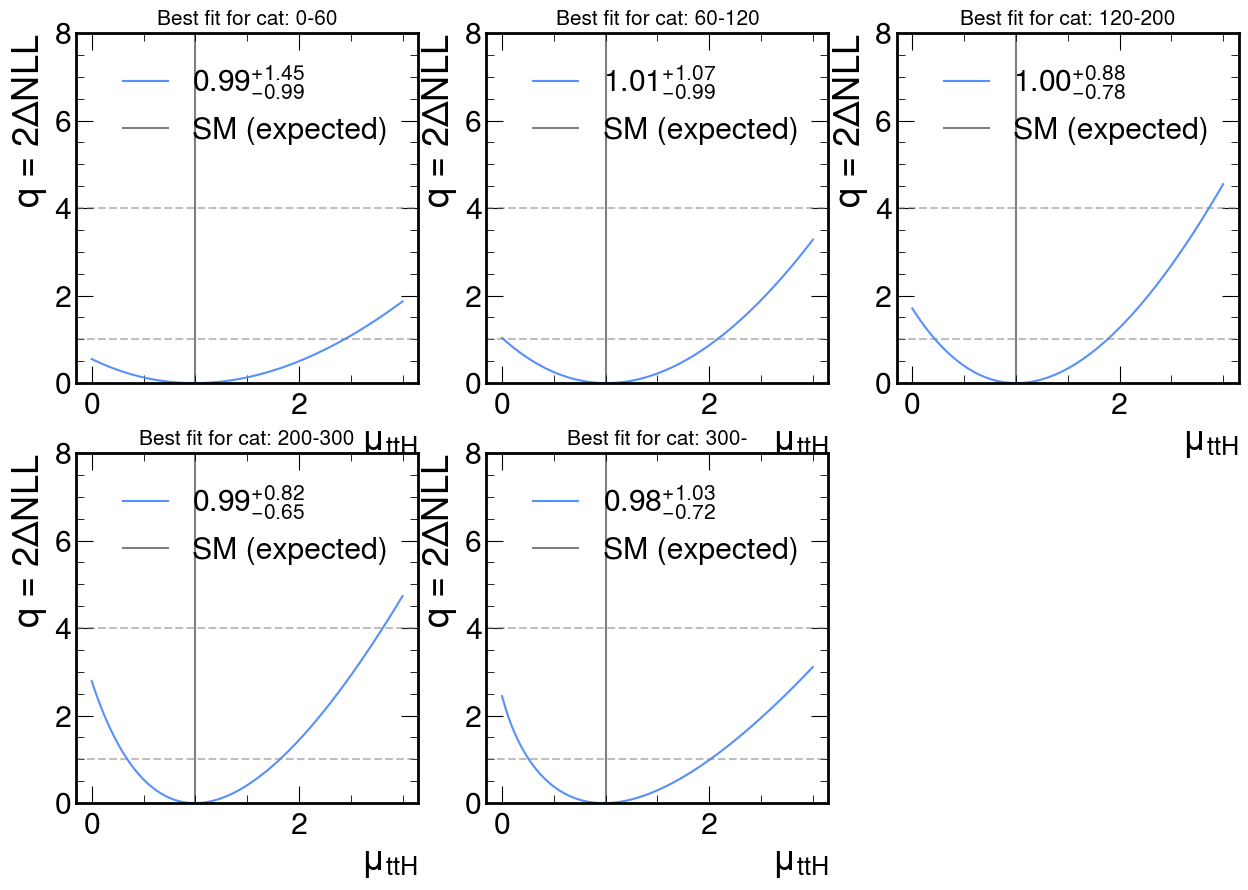
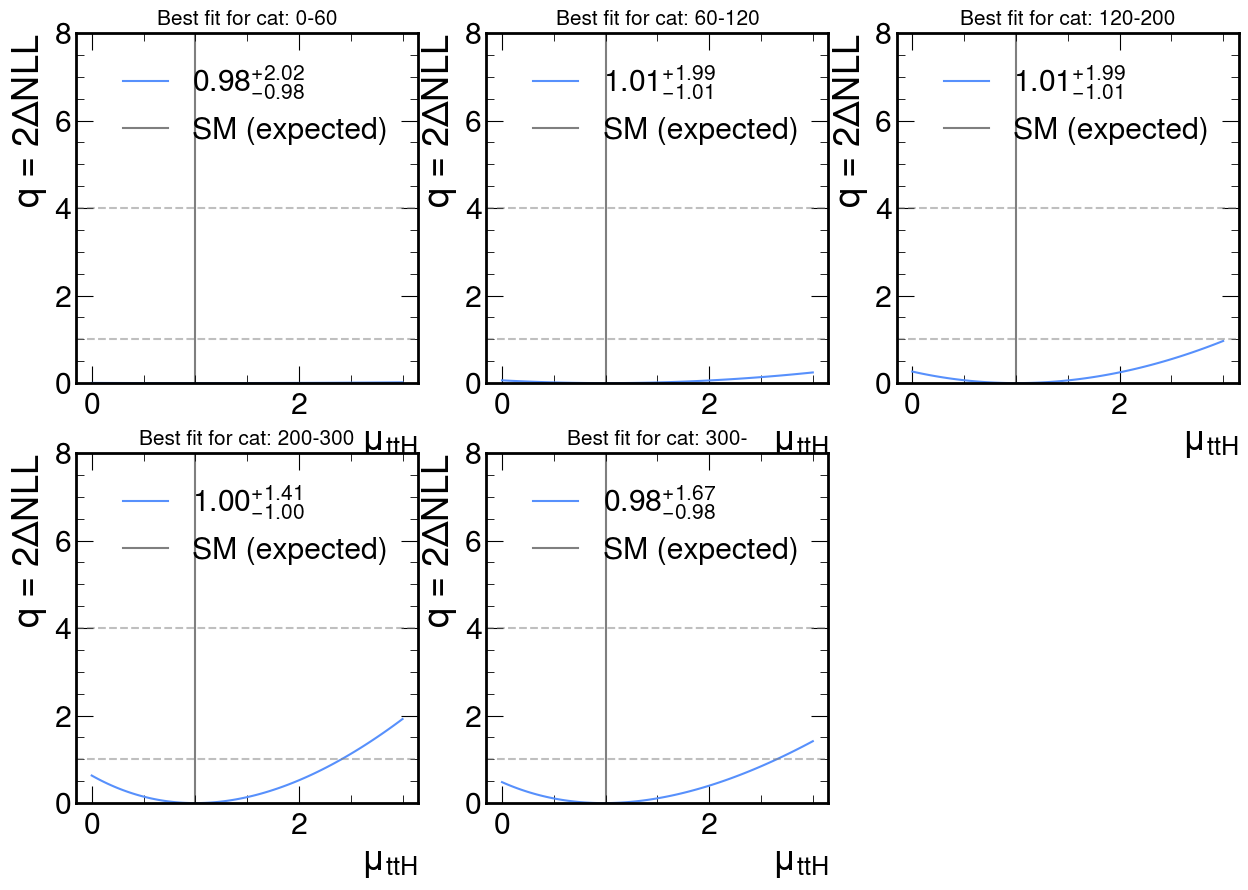
Conf matrix - Added data filtering, Background distribution - categorising and getting distribution for each category and replacing exisiting background counts with integrated background distribution.

diff --git a/background_dist.py b/background_dist.py
@@ -1,34 +1,68 @@
-
+#%%
 from utils import *
 import pandas as pd
 import numpy as np
 import matplotlib.pyplot as plt
 from scipy.optimize import curve_fit
+from scipy.integrate import quad
+from utils import get_pt_cat
+
 def exp(x, lam, A):
     return A*np.exp(-lam*x)
 def get_background_dist():
     back_data = pd.read_parquet(f"{sample_path}/Data_processed_selected.parquet")
-    back_mass = back_data["mass_sel"][back_data["mass_sel"]==back_data["mass_sel"]]
+    back_mass = back_data["mass_sel"]#.dropna().reset_index(drop=True)
+    back_pt = back_data["pt-over-mass_sel"]*back_mass
+    print(back_pt)
+    back_data["categories"] = get_pt_cat(back_pt)
+    back_data["categories"].dropna()
+    #print(back_data["categories"])
+    fig,ax = plt.subplots(ncols=5, figsize=(20,5))
+    #print(np.unique(back_data["categories"]))
 
-    fig,ax = plt.subplots()
-    
-    counts, bin_edges = np.histogram(back_mass, bins = 80)
-    bin_centres = (bin_edges[:-1]+bin_edges[1:])/2
+    fits = []
+    for cat in range(5):
+        #Combining categories 4 and 5
+        # if cat==4:
+        #     mask = (back_data["categories"]==cat) or (back_data["categories"]==cat+1)
+        # else: 
+        mask = back_data["categories"]==cat
+        cur_cat = back_mass[mask]
+        ax[cat].hist(cur_cat, bins=80, range=(100,200), weights = back_data["plot_weight"][mask])
+        counts, bin_edges = np.histogram(cur_cat, bins = 80, range= (100,200), weights = back_data["plot_weight"][mask])
+        bin_centres = (bin_edges[:-1]+bin_edges[1:])/2
 
-    mask = (bin_centres<125) | (bin_centres>135)
+        fil_cen = bin_centres[counts>0]
+        fil_counts = counts[counts>0]
+        
+        p_fit, p_cov = curve_fit(exp, fil_cen, fil_counts,p0=[0.001, 10000])
+        
+        ax[cat].plot(np.arange(100, 180), exp(np.arange(100, 180), *p_fit))
+        ax[cat].plot(fil_cen, fil_counts, linestyle="", marker="x")
+        ax[cat].set_xlabel("Mass (GeV)")
+        ax[cat].set_ylabel("Events")
+        ax[cat].set_title(f"Category {cat}")
+        fits.append(p_fit)
+    #fig.savefig(f"{analysis_path}/back_mass.png", bbox_inches="tight")
+    return fits
 
-    fil_cen = bin_centres[counts>0]
-    fil_counts = counts[counts>0]
-    
-    p_fit, p_cov = curve_fit(exp, fil_cen, fil_counts,p0=[0.001, 10000])
-    
-    ax.plot(np.arange(100, 180), exp(np.arange(100, 180), *p_fit))
-    ax.plot(fil_cen, fil_counts, linestyle="", marker="x")
-    
-    fig.savefig(f"{analysis_path}/back_mass.png", bbox_inches="tight")
-    return p_fit
+def get_back_int(cat, bounds, n_bins):
+    p_fit = get_background_dist()[cat]
+    lam, A = p_fit
 
+    events = []
+    bin_width = (bounds[1]-bounds[0])/n_bins
+
+    for i in range(n_bins):
+        lower_bound = bounds[0] + i * bin_width
+        upper_bound = lower_bound + bin_width
+        integral = quad(exp, lower_bound, upper_bound, args=(lam, A))
+        events.append(integral[0])
+    return np.array(events)
 
 
 
 get_background_dist()
+print(get_back_int(3, (120, 130), 5))
+
+# %%

diff --git a/simple_stat_analysis.py b/simple_stat_analysis.py
@@ -7,6 +7,7 @@ import mplhep as hep
 plt.style.use(hep.style.CMS)
 
 from utils import *
+from background_dist import *
 
 # Constants
 total_lumi = 7.9804
@@ -143,16 +144,20 @@ hists = {}
 mass_range = (120,130)
 mass_bins = 5
 v = 'mass'+col_name
-
 for cat in cats_unique:
     hists[cat] = {}
     for proc in procs.keys():
-        cat_mask = dfs[proc]['category'] == cat
-        hist_counts = np.histogram(dfs[proc][cat_mask][v], mass_bins, mass_range, weights=dfs[proc][cat_mask]['true_weight'+col_name])[0]
+        #Adding background events from background distribution
+        if proc=="background":
+            hist_counts=get_back_int(cat, mass_range, mass_bins)
+        else:
+            cat_mask = dfs[proc]['category'] == cat
+            hist_counts = np.histogram(dfs[proc][cat_mask][v], mass_bins, mass_range, weights=dfs[proc][cat_mask]['true_weight'+col_name])[0]
         
-        hist_counts[-2] += hist_counts[-1]  # Add last bin to the second last
-        hist_counts = hist_counts[:-1]      # Remove the last bin
+        # hist_counts[-2] += hist_counts[-1]  # Add last bin to the second last
+        # hist_counts = hist_counts[:-1]      # Remove the last bin
         hists[cat][proc] = hist_counts
+#print(hists)
 # Calculate NLL as a function of ttH signal strength (assuming fixed bkg and ggH yields)
 NLL_vals = []
 mu_vals = np.linspace(0,3,100)
@@ -212,7 +217,7 @@ comb_hist = build_combined_histogram(hists, conf_matrix[2], mass_bins=4)
 #NLL_vals = []
 init_mu = [1,1,1,1,1]
 
-fig, axes = plt.subplots(nrows=5, figsize=(8, 30), dpi = 300, sharex=True)
+fig, axes = plt.subplots(ncols=5, figsize=(25, 5), dpi = 300, sharex=True)
 
 for i in range(len(init_mu)):
     NLL_vals = []
@@ -244,7 +249,7 @@ print("The optimised values of mu are:", init_mu)
 Profiled fit for NLL 
 '''
 best_mus = np.ones(5)
-fig, ax = plt.subplots(1, 5, figsize=(25, 7))
+fig, ax = plt.subplots(1, 5, figsize=(40, 7))
 for idx in range(5):
     best_mus[idx], nll_mu = profiled_NLL_fit(comb_hist,conf_matrix[2], idx)
     ax[idx].plot(mu_vals, nll_mu)

diff --git a/utils.py b/utils.py
@@ -81,6 +81,7 @@ def TwoDeltaNLL(x):
 def calc_NLL(hists, mus, conf_matrix = [],signal='ttH'):
     NLL_vals = []
     # Loop over recon categories
+    #print(hists)
     for cat, yields in hists.items():
         n_bins = len(list(yields.values())[0])
         e = np.zeros(n_bins)
@@ -328,6 +329,27 @@ def get_pt_cat(data):
 def get_conf_mat(data):
     #print(data.columns[data.columns[:4]=="HTXS"])
     data = data[data["pt-over-mass_sel"]==data["pt-over-mass_sel"]].reset_index(drop=True)
+    
+    b_tag_scores = np.array(data[['j0_btagB_sel', 'j1_btagB_sel', 'j2_btagB_sel', 'j3_btagB_sel']])
+    b_tag_scores = np.nan_to_num(b_tag_scores, nan=-1)
+    max_b_tag_score = -1*np.sort(-1*b_tag_scores,axis=1)[:,0]
+    second_max_b_tag_score = -1*np.sort(-1*b_tag_scores,axis=1)[:,1]
+    data['max_b_tag_score'] = max_b_tag_score
+    data['second_max_b_tag_score'] = second_max_b_tag_score
+
+
+    #Applying selection cuts
+    yield_before_sel = data['plot_weight'].sum()
+    mask = data['n_jets_sel'] >= 2
+    mask = mask & (data['max_b_tag_score'] > 0.7)
+    mask = mask & (data['second_max_b_tag_score'] > 0.4)
+    data = data[mask].reset_index(drop=True)
+    yield_after_sel = data['plot_weight'].sum()
+    eff = (yield_after_sel/yield_before_sel)*100
+    print(f"N = {yield_before_sel:.2f} --> {yield_after_sel:.2f}, eff = {eff:.1f}%")
+
+    #print(data)
+
     truth = data["HTXS_Higgs_pt_sel"]
     recon = data["pt-over-mass_sel"]*data["mass_sel"]
 
